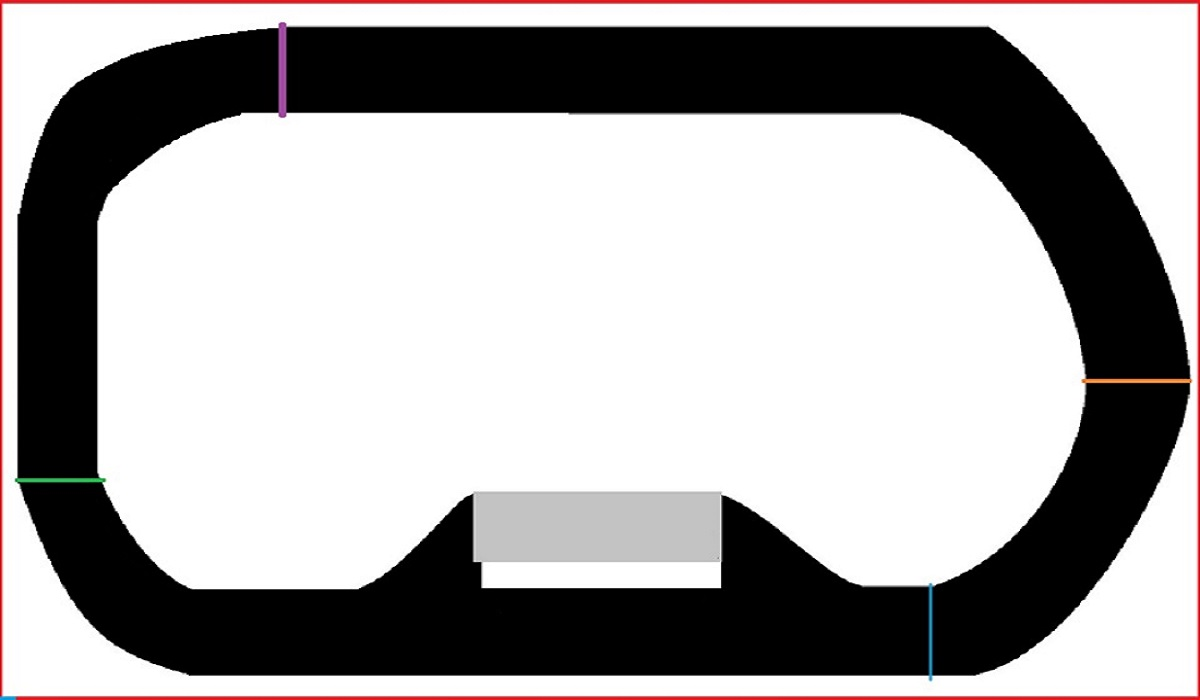
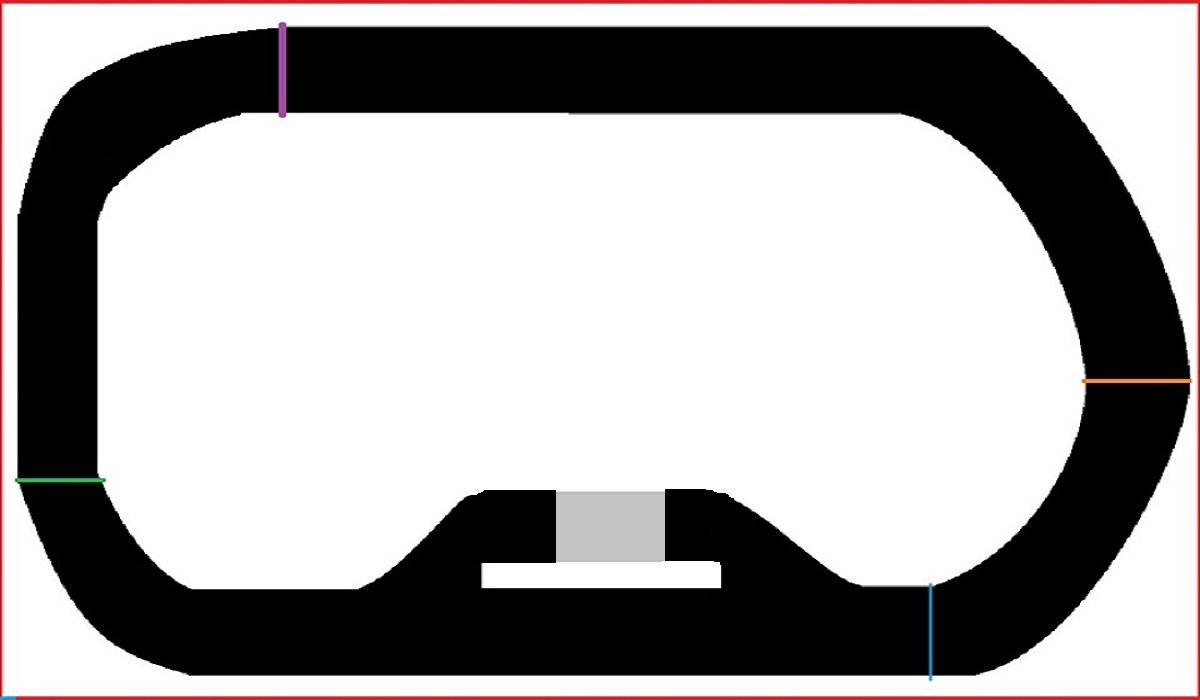
pitstop moet kleiner en car eis over sturen is klaar

Changed region(s): [[0.37, 0.69, 0.4625, 0.81], [0.555, 0.69, 0.6167, 0.81]]

diff --git a/src/RaceGame/RaceGame/TrackHandler.cs b/src/RaceGame/RaceGame/TrackHandler.cs
@@ -91,9 +91,38 @@ namespace RaceGame
             if (car2Rec.Intersects(Checkpoint))
                 car2.hasCheckPoint = true;
             if (car1Rec.Intersects(Pitstop))
-                car1.Fuel += 0.015;
+                {
+                    if (car1.Speed > 0 &&(car1.Fuel<30||car1.Health<100))
+                    {
+                        car1.Speed -= (car1.Speed/5);
+                        if (car1.Speed < 25)
+                        {
+                            car1.Speed = 0;
+                        }
+                    }
+                car1.Fuel += 0.010;
+                if (car1.Health <= 99.9)
+                    {
+                        car1.Health += (float)0.03;
+                    }
+                }
             if (car2Rec.Intersects(Pitstop))
-                car2.Fuel += 0.015;
+                {
+                    if (car2.Speed > 0 && (car1.Fuel < 30 || car1.Health < 100))
+                    {
+                        car2.Speed -= (car1.Speed / 6);
+                        if (car2.Speed < 25)
+                        {
+                            car2.Speed = 0;
+                        }
+                        
+                    }
+                    car2.Fuel += 0.010;
+                    if(car2.Health<=99.9)
+                    {
+                        car2.Health += (float)0.03;
+                    }
+                }
             if (car1Rec.Intersects(Finish) && car1.hasCheckPoint)
             {
                 car1.hasCheckPoint = false;
@@ -118,7 +147,8 @@ namespace RaceGame
         public void InitializeTextures(ContentManager Content)
         {
             this.texture = Content.Load<Texture2D>("overlay1");
-            this.texture1 = Content.Load<Texture2D>("baanv6");
+            
+            this.texture1 = Content.Load<Texture2D>("collision");
             this.car1Texture = Content.Load<Texture2D>("bumper");
             this.car2Texture = Content.Load<Texture2D>("bumper");
             this.powerupTexture = Content.Load<Texture2D>("mushroom");

diff --git a/src/RaceGame/RaceGame/Car.cs b/src/RaceGame/RaceGame/Car.cs
@@ -46,9 +46,9 @@ namespace RaceGame
                 Vector2 currentDirection = new Vector2((float)(Speed * carMove * Math.Cos(Direction)), (float)(Speed * carMove * Math.Sin(Direction)));
 
                 Background collidesWith = CollisionHandler.CollidesWith((int)carMove * 200, CarPosition, this);
-                if ((state.IsKeyDown(Keys.A)))
+                if ((state.IsKeyDown(Keys.A) && Speed!=0))
                     Direction -= (float)(1 * 3.0f * gameTime.ElapsedGameTime.TotalSeconds);
-                else if ((state.IsKeyDown(Keys.D)))
+                else if ((state.IsKeyDown(Keys.D) && Speed !=0))
                     Direction += (float)(1 * 3.0f * gameTime.ElapsedGameTime.TotalSeconds);
 
                 if ((state.IsKeyDown(Keys.W) && (collidesWith != Background.Wall)))
@@ -110,6 +110,10 @@ namespace RaceGame
                     Acceleration = 200.0f;
                     CarPosition = Vector2.Add(CarPosition, currentDirection);
 
+                    if (collidesWith == Background.Wall)
+                    {
+                        Speed -= -1 * (Speed / 4);
+                    }
                     if (collidesWith == Background.Grass)
                     {
                         if (Speed >= 200.0f * 0.3f)
@@ -133,9 +137,10 @@ namespace RaceGame
                     else Speed -= 5.0f;
                 }
 
-                if (state.IsKeyDown(Keys.Down) && (collidesWith != Background.Wall))
-                    CarPosition = Vector2.Subtract(CarPosition, new Vector2((float)(carMove * 100.0f * Math.Cos(Direction)), (float)(carMove * 100.0f * Math.Sin(Direction))));
-
+                else if (state.IsKeyDown(Keys.Down) && (collidesWith != Background.Wall))
+                     {
+                         CarPosition = Vector2.Subtract(CarPosition, new Vector2((float)(carMove * 100.0f * Math.Cos(Direction)), (float)(carMove * 100.0f * Math.Sin(Direction))));
+                     }
                 if (Speed < 0)
                     Speed = 0;
             }

diff --git a/src/RaceGame/RaceGame/CollisionHandler.cs b/src/RaceGame/RaceGame/CollisionHandler.cs
@@ -61,12 +61,12 @@ namespace RaceGame
             Background collidedWith = Background.Road;
             foreach (Color foundColor in foundColors)
             {
-                if (foundColor.Equals(Color.Gray))
+                if (foundColor.Equals(Color.Black))
                 {
                     collidedWith = Background.Road;
                     break;
                 }
-                else if (foundColor.Equals(Color.Blue))
+                else if (foundColor.Equals(Color.Red))
                 {
                     collidedWith = Background.Wall;
                     break;
@@ -76,7 +76,7 @@ namespace RaceGame
                     collidedWith = Background.Grass;
                     break;
                 }
-                else if (foundColor.Equals(Color.Red))
+                else if (foundColor.Equals(Color.Blue))
                 {
                     collidedWith = Background.FullLap;
                     break;
@@ -86,7 +86,7 @@ namespace RaceGame
                     collidedWith = Background.CheckPoint;
                     break;
                 }
-                else if (foundColor.Equals(Color.Brown))
+                else if (foundColor.Equals(Color.Orange))
                 {
                     collidedWith = Background.Dirt;
                     break;

diff --git a/src/RaceGame/RaceGame/RaceGame.cs b/src/RaceGame/RaceGame/RaceGame.cs
@@ -91,7 +91,7 @@ namespace RaceGame
         protected override void Update(GameTime gameTime)
         {
             // Allows the game to exit
-            if (GamePad.GetState(PlayerIndex.One).Buttons.Back == ButtonState.Pressed || Keyboard.GetState().IsKeyDown(Keys.Escape);
+            if (GamePad.GetState(PlayerIndex.One).Buttons.Back == ButtonState.Pressed || Keyboard.GetState().IsKeyDown(Keys.Escape))
                 this.Exit();
 
             TrackHandler.getInstance().update(gameTime);
